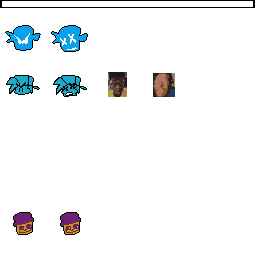
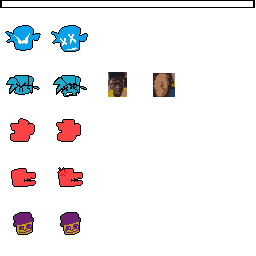
cassidy and go fish done

diff --git a/src/character/cassidy.c b/src/character/cassidy.c
@@ -1,0 +1,210 @@
+/*
+  This Source Code Form is subject to the terms of the Mozilla Public
+  License, v. 2.0. If a copy of the MPL was not distributed with this
+  file, You can obtain one at http://mozilla.org/MPL/2.0/.
+*/
+
+#include "cassidy.h"
+
+#include "../mem.h"
+#include "../archive.h"
+#include "../stage.h"
+#include "../random.h"
+#include "../main.h"
+
+//Cassidy player types
+enum
+{
+	Cassidy_ArcMain_Cassidy0,
+	Cassidy_ArcMain_Cassidy1,
+	
+	Cassidy_Arc_Max,
+};
+
+typedef struct
+{
+	//Character base structure
+	Character character;
+	
+	//Render data and state
+	IO_Data arc_main;
+	IO_Data arc_ptr[Cassidy_Arc_Max];
+	
+	Gfx_Tex tex;
+	u8 frame, tex_id;
+	
+} Char_Cassidy;
+
+//Cassidy player definitions
+static const CharFrame char_cassidy_frame[] = 
+{
+	{Cassidy_ArcMain_Cassidy0, {  0,  0, 55, 68}, { 53, 92}}, //0 idle 1
+	{Cassidy_ArcMain_Cassidy0, { 56,  0, 55, 68}, { 53, 92}}, //1 idle 2
+	{Cassidy_ArcMain_Cassidy0, {112,  0, 55, 68}, { 53, 92}}, //2 idle 3
+	{Cassidy_ArcMain_Cassidy0, {168,  0, 55, 68}, { 53, 92}}, //3 idle 3
+	
+	{Cassidy_ArcMain_Cassidy0, {  0, 69, 55, 68}, { 53, 92}}, //4 left 1
+	{Cassidy_ArcMain_Cassidy0, { 56, 69, 55, 68}, { 53, 92}}, //5 left 2
+	
+	{Cassidy_ArcMain_Cassidy0, {112, 69, 55, 68}, { 53, 92}}, //6 down 1
+	{Cassidy_ArcMain_Cassidy0, {168, 69, 55, 68}, { 53, 92}}, //7 down 2
+	
+	{Cassidy_ArcMain_Cassidy0, {  0,138, 55, 68}, { 53, 92}}, //8 up 1
+	{Cassidy_ArcMain_Cassidy0, { 56,138, 55, 68}, { 53, 92}}, //9 up 2
+	
+	{Cassidy_ArcMain_Cassidy0, {112,138, 55, 68}, { 53, 92}}, //10 right 1
+	{Cassidy_ArcMain_Cassidy0, {168,138, 55, 68}, { 53, 92}}, //11 right 2
+	
+	{Cassidy_ArcMain_Cassidy1, {  0,  0, 55, 68}, { 53, 92}}, //12 left miss 1
+	{Cassidy_ArcMain_Cassidy1, { 56,  0, 55, 68}, { 53, 92}}, //13 left miss 2
+	
+	{Cassidy_ArcMain_Cassidy1, {112,  0, 55, 68}, { 53, 92}}, //14 down miss 1
+	{Cassidy_ArcMain_Cassidy1, {168,  0, 55, 68}, { 53, 92}}, //15 down miss 2
+	
+	{Cassidy_ArcMain_Cassidy1, {  0, 69, 55, 68}, { 53, 92}}, //16 up miss 1
+	{Cassidy_ArcMain_Cassidy1, { 56, 69, 55, 68}, { 53, 92}}, //17 up miss 2
+	
+	{Cassidy_ArcMain_Cassidy1, {112, 69, 55, 68}, { 53, 92}}, //18 right miss 1
+	{Cassidy_ArcMain_Cassidy1, {168, 69, 55, 68}, { 53, 92}}, //19 right miss 2
+};
+static const Animation char_cassidy_anim[PlayerAnim_Max] = {
+	{4, (const u8[]){ 0,  1,  2, 3, ASCR_CHGANI, CharAnim_Idle}}, //CharAnim_Idle
+	{2, (const u8[]){ 4, 5, ASCR_BACK, 1}},             //CharAnim_Left
+	{0, (const u8[]){ASCR_CHGANI, CharAnim_Idle}},       //CharAnim_LeftAlt
+	{2, (const u8[]){ 6, 7, ASCR_BACK, 1}},             //CharAnim_Down
+	{0, (const u8[]){ASCR_CHGANI, CharAnim_Idle}},       //CharAnim_DownAlt
+	{2, (const u8[]){ 8, 9, ASCR_BACK, 1}},             //CharAnim_Up
+	{0, (const u8[]){ASCR_CHGANI, CharAnim_Idle}},       //CharAnim_UpAlt
+	{2, (const u8[]){ 10, 11, ASCR_BACK, 1}},             //CharAnim_Right
+	{0, (const u8[]){ASCR_CHGANI, CharAnim_Idle}},       //CharAnim_RightAlt
+	
+	{1, (const u8[]){ 4, 12, 13, ASCR_BACK, 1}},     //PlayerAnim_LeftMiss
+	{1, (const u8[]){ 6, 14, 15, ASCR_BACK, 1}},     //PlayerAnim_DownMiss
+	{1, (const u8[]){ 8, 16, 17, ASCR_BACK, 1}},     //PlayerAnim_UpMiss
+	{1, (const u8[]){ 10, 18, 19, ASCR_BACK, 1}},     //PlayerAnim_RightMiss
+};
+
+//Cassidy player functions
+void Char_Cassidy_SetFrame(void *user, u8 frame)
+{
+	Char_Cassidy *this = (Char_Cassidy*)user;
+	
+	//Check if this is a new frame
+	if (frame != this->frame)
+	{
+		//Check if new art shall be loaded
+		CharFrame *cframe;
+
+ 		cframe = &char_cassidy_frame[this->frame = frame];
+		if (cframe->tex != this->tex_id)
+			Gfx_LoadTex(&this->tex, this->arc_ptr[this->tex_id = cframe->tex], 0);
+	}
+}
+
+void Char_Cassidy_Tick(Character *character)
+{
+	Char_Cassidy *this = (Char_Cassidy*)character;
+
+	//Handle animation updates
+	if ((character->pad_held & (INPUT_LEFT | INPUT_DOWN | INPUT_UP | INPUT_RIGHT)) == 0 ||
+	    (character->animatable.anim != CharAnim_Left &&
+	     character->animatable.anim != CharAnim_LeftAlt &&
+	     character->animatable.anim != CharAnim_Down &&
+	     character->animatable.anim != CharAnim_DownAlt &&
+	     character->animatable.anim != CharAnim_Up &&
+	     character->animatable.anim != CharAnim_UpAlt &&
+	     character->animatable.anim != CharAnim_Right &&
+	     character->animatable.anim != CharAnim_RightAlt))
+		Character_CheckEndSing(character);
+	
+	if (stage.flag & STAGE_FLAG_JUST_STEP)
+	{
+		//Perform idle dance
+		if (Animatable_Ended(&character->animatable) &&
+			(character->animatable.anim != CharAnim_Left &&
+		     character->animatable.anim != CharAnim_LeftAlt &&
+		     character->animatable.anim != PlayerAnim_LeftMiss &&
+		     character->animatable.anim != CharAnim_Down &&
+		     character->animatable.anim != CharAnim_DownAlt &&
+		     character->animatable.anim != PlayerAnim_DownMiss &&
+		     character->animatable.anim != CharAnim_Up &&
+		     character->animatable.anim != CharAnim_UpAlt &&
+		     character->animatable.anim != PlayerAnim_UpMiss &&
+		     character->animatable.anim != CharAnim_Right &&
+		     character->animatable.anim != CharAnim_RightAlt &&
+		     character->animatable.anim != PlayerAnim_RightMiss) &&
+			(stage.song_step & 0x7) == 0)
+			character->set_anim(character, CharAnim_Idle);
+	}
+	
+	//Animate and draw character
+	Animatable_Animate(&character->animatable, (void*)this, Char_Cassidy_SetFrame);
+
+	Character_Draw(character, &this->tex, &char_cassidy_frame[this->frame]);
+}
+
+void Char_Cassidy_SetAnim(Character *character, u8 anim)
+{
+	Char_Cassidy *this = (Char_Cassidy*)character;
+	
+	//Set animation
+	Animatable_SetAnim(&character->animatable, anim);
+	Character_CheckStartSing(character);
+}
+
+void Char_Cassidy_Free(Character *character)
+{
+	Char_Cassidy *this = (Char_Cassidy*)character;
+	
+	//Free art
+	Mem_Free(this->arc_main);
+}
+
+Character *Char_Cassidy_New(fixed_t x, fixed_t y)
+{
+	//Allocate cassidy object
+	Char_Cassidy *this = Mem_Alloc(sizeof(Char_Cassidy));
+	if (this == NULL)
+	{
+		sprintf(error_msg, "[Char_Cassidy_New] Failed to allocate cassidy object");
+		ErrorLock();
+		return NULL;
+	}
+	
+	//Initialize character
+	this->character.tick = Char_Cassidy_Tick;
+	this->character.set_anim = Char_Cassidy_SetAnim;
+	this->character.free = Char_Cassidy_Free;
+	
+	Animatable_Init(&this->character.animatable, char_cassidy_anim);
+	Character_Init((Character*)this, x, y);
+	
+	//Set character information
+	this->character.spec = CHAR_SPEC_MISSANIM;
+	
+	this->character.health_i = 2;
+
+	//health bar color
+	this->character.health_bar = 0xFFF94345;
+
+	this->character.focus_x = FIXED_DEC(-126,1);
+	this->character.focus_y = FIXED_DEC(-46,1);
+	this->character.focus_zoom = FIXED_DEC(465,512);
+	
+	//Load art
+	this->arc_main = IO_Read("\\CHAR2\\CASSIDY.ARC;1");
+	
+	const char **pathp = (const char *[]){
+		"cassidy0.tim",   //Cassidy_ArcMain_Cassidy0
+		"cassidy1.tim",   //Cassidy_ArcMain_Cassidy1
+		NULL
+	};
+	IO_Data *arc_ptr = this->arc_ptr;
+	for (; *pathp != NULL; pathp++)
+		*arc_ptr++ = Archive_Find(this->arc_main, *pathp);
+
+	//Initialize render state
+	this->tex_id = this->frame = 0xFF;
+	
+	return (Character*)this;
+}

diff --git a/src/stage/flipside.c b/src/stage/flipside.c
@@ -1,0 +1,78 @@
+/*
+  This Source Code Form is subject to the terms of the Mozilla Public
+  License, v. 2.0. If a copy of the MPL was not distributed with this
+  file, You can obtain one at http://mozilla.org/MPL/2.0/.
+*/
+
+#include "flipside.h"
+
+#include "../archive.h"
+#include "../mem.h"
+#include "../stage.h"
+#include "../random.h"
+#include "../timer.h"
+#include "../animation.h"
+
+//Flipside background structure
+typedef struct
+{
+	//Stage background base structure
+	StageBack back;
+	
+	//Textures
+	Gfx_Tex tex_back0; //lake
+
+} Back_Flipside;
+
+
+void Back_Flipside_DrawBG(StageBack *back)
+{
+	Back_Flipside *this = (Back_Flipside*)back;
+	
+	fixed_t fx, fy;
+
+	//Draw lake
+	fx = stage.camera.x;
+	fy = stage.camera.y;
+	
+	RECT lake_src = {0, 0, 255, 255};
+	RECT_FIXED lake_dst = {
+		FIXED_DEC(-235 - screen.SCREEN_WIDEOADD2,1) - fx,
+		FIXED_DEC(-205,1) - fy,
+		FIXED_DEC(642 + screen.SCREEN_WIDEOADD,1),
+		FIXED_DEC(451,1)
+	};
+
+	Debug_StageMoveDebug(&lake_dst, 6, fx, fy);
+	Stage_DrawTex(&this->tex_back0, &lake_src, &lake_dst, stage.camera.bzoom);
+}
+
+void Back_Flipside_Free(StageBack *back)
+{
+	Back_Flipside *this = (Back_Flipside*)back;
+	
+
+	//Free structure
+	Mem_Free(this);
+}
+
+StageBack *Back_Flipside_New(void)
+{
+	//Allocate background structure
+	Back_Flipside *this = (Back_Flipside*)Mem_Alloc(sizeof(Back_Flipside));
+	if (this == NULL)
+		return NULL;
+	
+	//Set background functions
+	this->back.draw_fg = NULL;
+	this->back.draw_md = NULL;
+	this->back.draw_bg = Back_Flipside_DrawBG;
+	this->back.free = Back_Flipside_Free;
+	
+	//Load background textures
+	IO_Data arc_back = IO_Read("\\FLIPSIDE\\BACK.ARC;1");
+	Gfx_LoadTex(&this->tex_back0, Archive_Find(arc_back, "back0.tim"), 0);
+	Mem_Free(arc_back);
+	
+	return (StageBack*)this;
+}

diff --git a/src/stage.c b/src/stage.c
@@ -68,6 +68,7 @@ static u32 Sounds[7];
 #include "character/gfreddy.h"
 #include "character/foxy.h"
 #include "character/salvage.h"
+#include "character/cassidy.h"
 #include "character/omc.h"
 #include "character/plush.h"
 #include "character/abdul.h"
@@ -84,6 +85,7 @@ static u32 Sounds[7];
 #include "stage/stage01.h"
 #include "stage/officeb.h"
 #include "stage/fnaf3.h"
+#include "stage/flipside.h"
 
 static const StageDef stage_defs[StageId_Max] = {
 	#include "stagedef_disc1.h"
@@ -2753,6 +2755,8 @@ void Stage_Tick(void)
 				Gfx_LoadTex(&stage.tex_ded, IO_Read("\\CHAR\\DEADF.TIM;1"), GFX_LOADTEX_FREE);
 			else if (stage.stage_id == StageId_3_2)
 				Gfx_LoadTex(&stage.tex_ded, IO_Read("\\CHAR\\DEADM.TIM;1"), GFX_LOADTEX_FREE);
+			else if (stage.stage_id == StageId_4_1)
+				Gfx_LoadTex(&stage.tex_ded, IO_Read("\\CHAR2\\DEADC.TIM;1"), GFX_LOADTEX_FREE);
 			else
 				Gfx_LoadTex(&stage.tex_ded, IO_Read("\\CHAR\\DEADO.TIM;1"), GFX_LOADTEX_FREE);
 		

diff --git a/src/character/omc.c b/src/character/omc.c
@@ -137,11 +137,11 @@ Character *Char_OMC_New(fixed_t x, fixed_t y)
 	this->character.health_i = 3;
 
 	//health bar color
-	this->character.health_bar = 0xFFC39B06;
+	this->character.health_bar = 0xFFF94345;
 	
-	this->character.focus_x = FIXED_DEC(47,1);
-	this->character.focus_y = FIXED_DEC(-121,1);
-	this->character.focus_zoom = FIXED_DEC(311,256);
+	this->character.focus_x = FIXED_DEC(62,1);
+	this->character.focus_y = FIXED_DEC(-141,1);
+	this->character.focus_zoom = FIXED_DEC(465,512);
 	
 	//Load art
 	this->arc_main = IO_Read("\\CHAR2\\OMC.ARC;1");

diff --git a/src/stagedef_disc1.h b/src/stagedef_disc1.h
@@ -213,18 +213,18 @@
 	
 	{ //StageId_4_1 (Go Fish)
 		//Characters
-		{Char_BF_New,    FIXED_DEC(60,1),  FIXED_DEC(100,1)},
+		{Char_Cassidy_New,    FIXED_DEC(178,1),  FIXED_DEC(11,1)},
 		{NULL},
 		{NULL},
 		{NULL},
 		{NULL},
-		{Char_OMC_New, FIXED_DEC(-120,1),  FIXED_DEC(100,1)},
+		{Char_OMC_New, FIXED_DEC(-65,1),  FIXED_DEC(154,1)},
 		{NULL},
         {NULL},
 		{NULL},
 		
 		//Stage background
-		Back_Black_New,
+		Back_Flipside_New,
 		
 		//Song info
 		4, 1,

diff --git a/src/character/cassidy.h b/src/character/cassidy.h
@@ -1,0 +1,15 @@
+/*
+  This Source Code Form is subject to the terms of the Mozilla Public
+  License, v. 2.0. If a copy of the MPL was not distributed with this
+  file, You can obtain one at http://mozilla.org/MPL/2.0/.
+*/
+
+#ifndef PSXF_GUARD_CASSIDY_H
+#define PSXF_GUARD_CASSIDY_H
+
+#include "../player.h"
+
+//Cassidy player functions
+Character *Char_Cassidy_New(fixed_t x, fixed_t y);
+
+#endif

diff --git a/src/stage/flipside.h b/src/stage/flipside.h
@@ -1,0 +1,15 @@
+/*
+  This Source Code Form is subject to the terms of the Mozilla Public
+  License, v. 2.0. If a copy of the MPL was not distributed with this
+  file, You can obtain one at http://mozilla.org/MPL/2.0/.
+*/
+
+#ifndef PSXF_GUARD_FLIPSIDE_H
+#define PSXF_GUARD_FLIPSIDE_H
+
+#include "../stage.h"
+
+//Flipside functions
+StageBack *Back_Flipside_New();
+
+#endif
